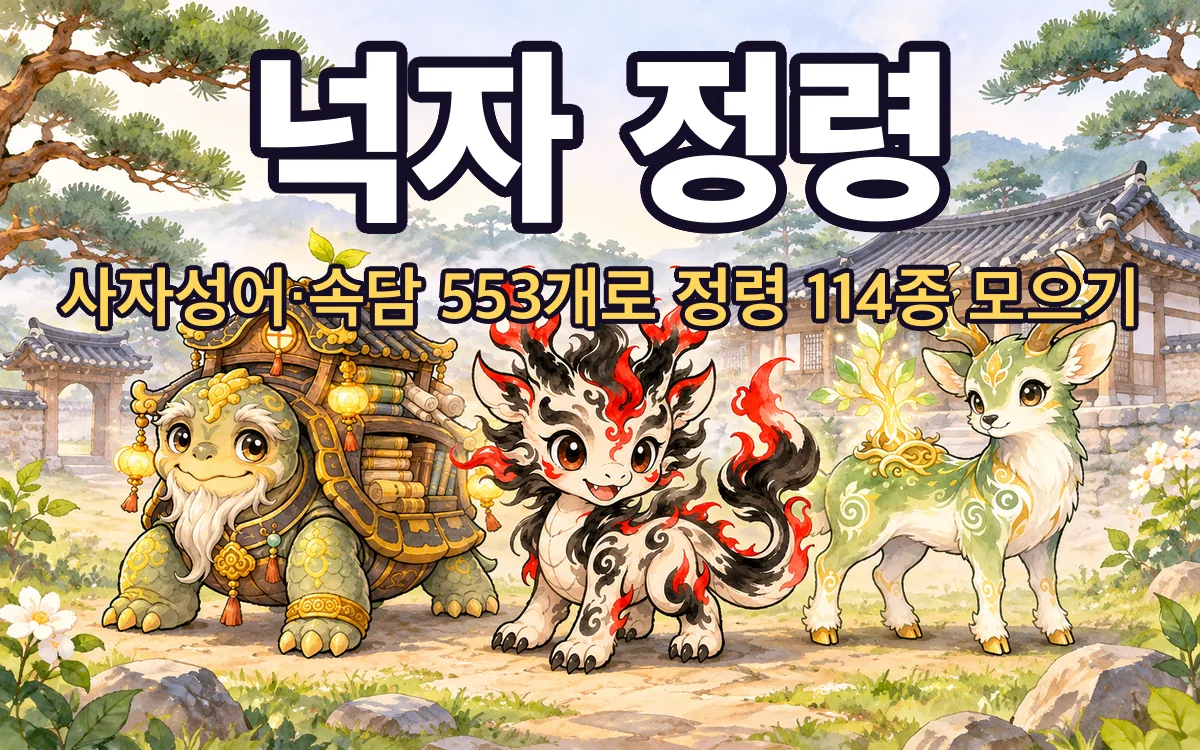
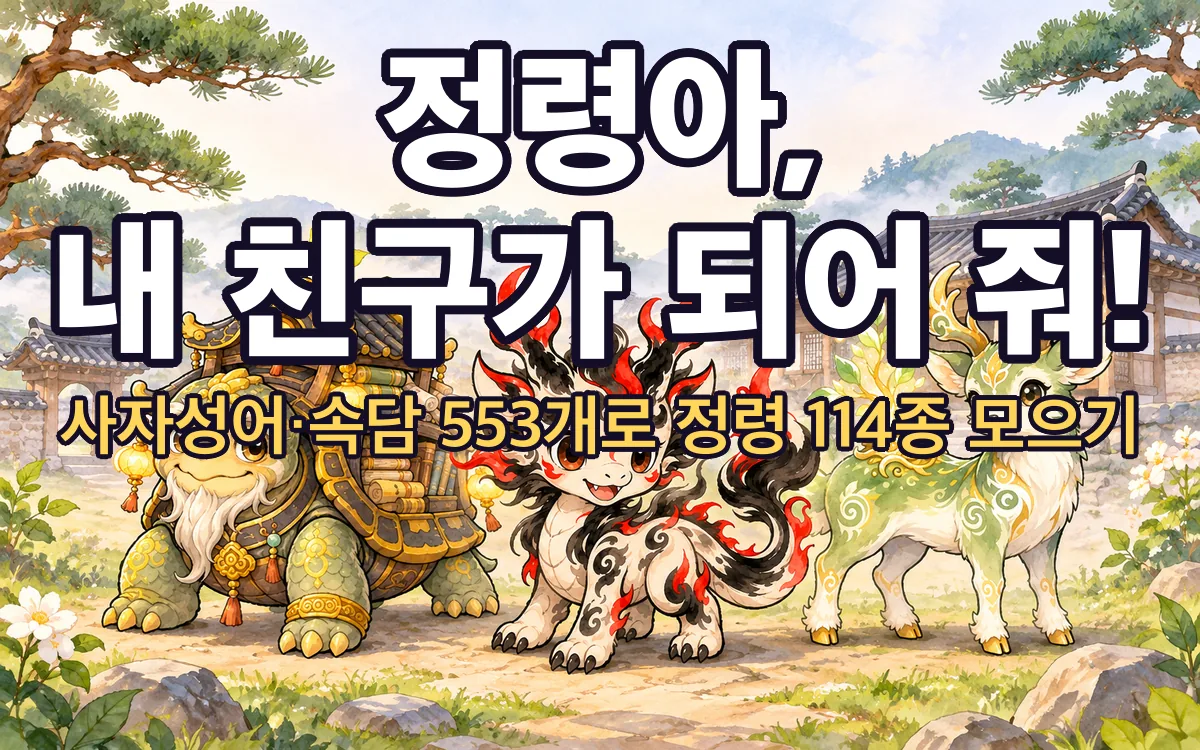
chore(games): 넉자 정령 → «정령아, 내 친구가 되어 줘!» 이름·썸네일
Claude-Session: https://claude.ai/code/session_01SkaQPoiCtMQ7hVUnFNum9w

Changed region(s): [[0.0308, 0.0307, 0.9558, 0.4907], [0.0308, 0.5213, 0.9558, 0.6133]]

diff --git a/src/data/projects.ts b/src/data/projects.ts
@@ -1574,7 +1574,7 @@ export const learningSites: LearningSite[] = [
   {
     slug: 'neokja',
     added: '2026-11-10T20:30',
-    name: '넉자 정령',
+    name: '정령아, 내 친구가 되어 줘!',
     subject: '국어',
     category: '국어·통합',
     tags: ['국어', '한자', '키우기·경영', '학교 대항'],
